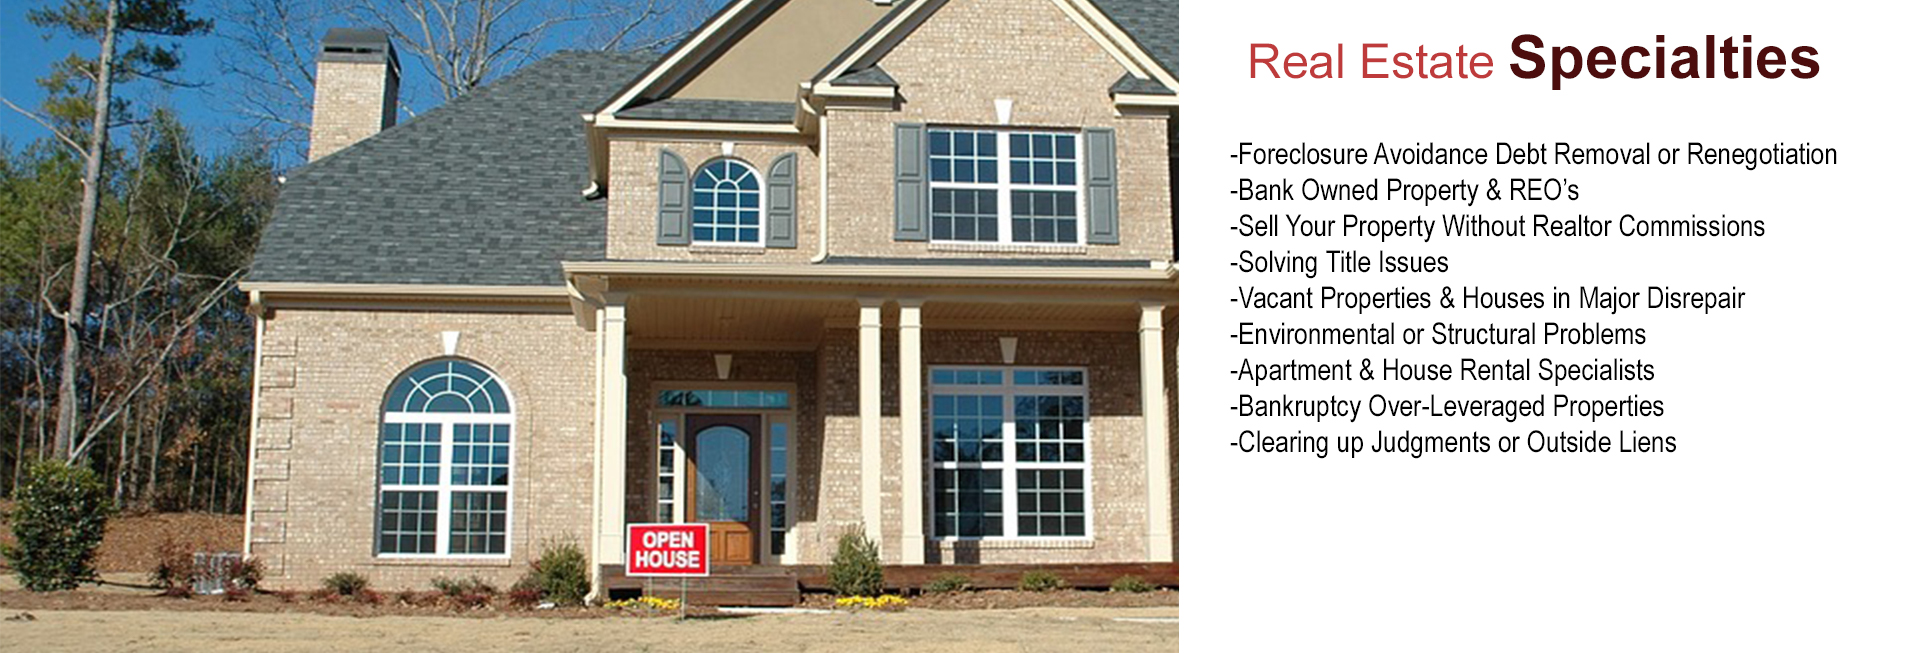
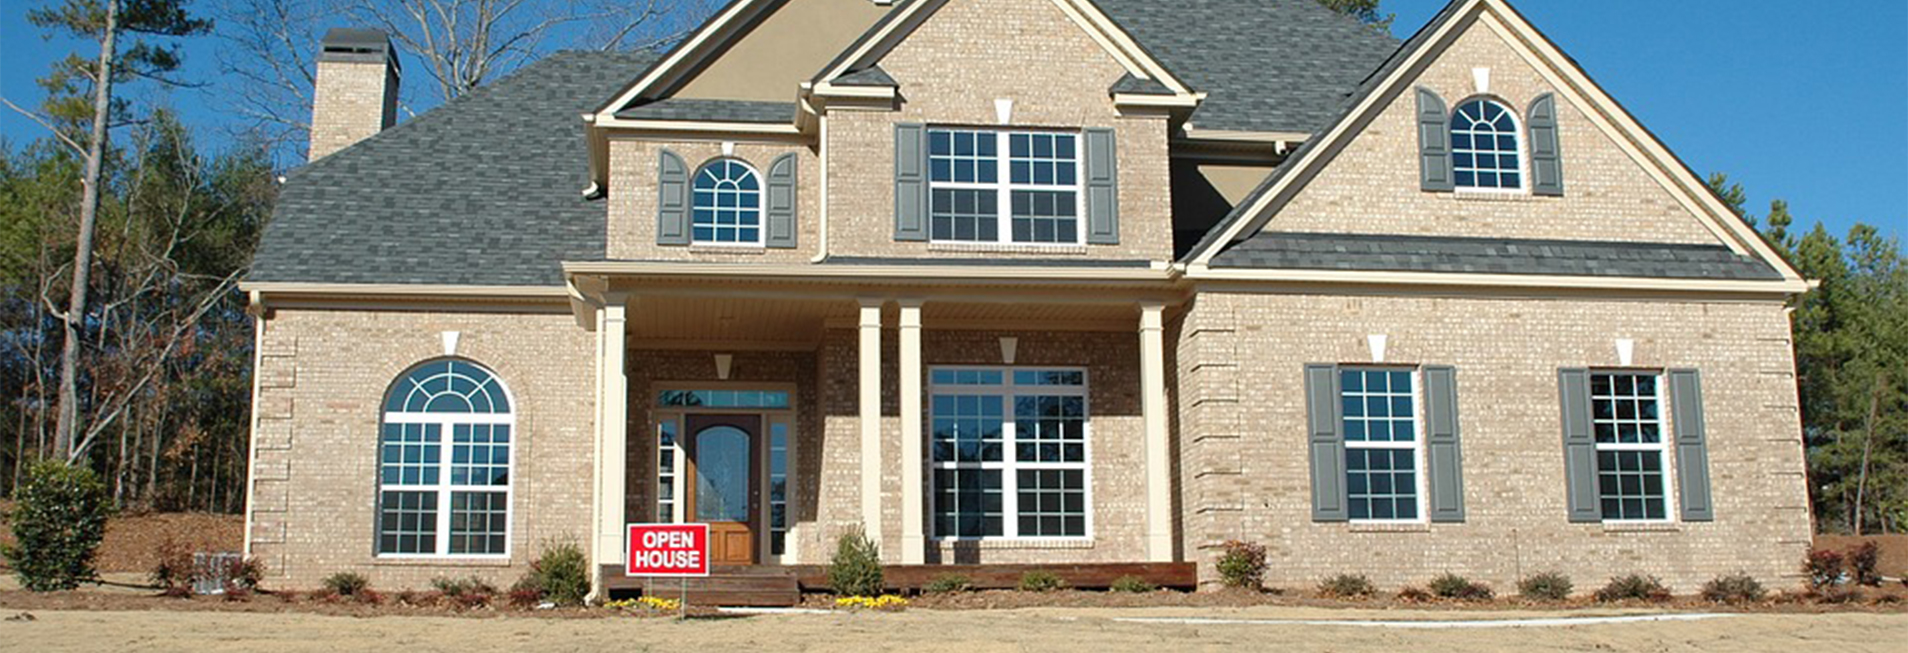
Carousel and Whoweare hidden/shown correctly, modal edits. New images

diff --git a/site/src/app/home/home.component.ts b/site/src/app/home/home.component.ts
@@ -13,10 +13,13 @@ export class HomeComponent implements OnInit {
 
   ngOnInit() {
       this.tiles = [
-          { img: 'assets/images/slideshow/Charity-2.jpg', caption: '', slide: 0 },
-          { img: 'assets/images/slideshow/Family-2.jpg', caption: '', slide: 1 },
-          { img: 'assets/images/slideshow/sale-2.jpg', caption: '', slide: 2 },
-          { img: 'assets/images/slideshow/Team-2.jpg', caption: '', slide: 3 }
+          {
+              img: 'assets/images/slideshow/Charity-2.jpg', title: 'Giving Back',
+              caption: 'I Buy As Is, Inc. Gives network of companies dedicated to giving back to our community. We are passionate about philanthropy and we have had the honor of working with amazing organizations like Habitat for Humanity and the Red Cross. I Buy As Is, Inc. is the Tampa Bay area’s prime real estate investment company. With over 45 years of combined expertise we are able to help homeowners overcome a multitude of financial situations. We recognize that each situation is different, we take great pride in catering to each individual homeowners needs. We are capable of buying homes and making cash offers with a fast and efficient process. We also rehabilitate numerous properties throughout our area in order to assist in the redevelopment of our local communities with a proven track record.', slide: 0
+          },
+          { img: 'assets/images/slideshow/Family-2.jpg', title: 'Our team works for you and YOURS.', caption:'With our extensive Real Estate specialties including but not limited to: Avoiding Foreclosure, Divorce or Land Disputes, and Costly Home Repairs; we can help you and your family sell your home and free youself from the burden that it carried.', slide: 1 },
+          { img: 'assets/images/slideshow/sale-2.jpg',title:'Real Estate Specialties' ,caption: 'Foreclosure Avoidance Debt Removal or Renegotiation, Bank Owned Property & REO’s, Sell Your Property Without Realtor Commissions, Solving Title Issues, Vacant Properties & Houses in Major Disrepair, Environmental or Structural Problems,  Apartment & House Rental Specialists, Bankruptcy Over-Leveraged Properties, Clearing up Judgments or Outside Liens', slide: 2 },
+          { img: 'assets/images/slideshow/Team-2.jpg',title:'We are...' ,caption: 'I Buy As Is, Inc. is the areas’ premier real estate solutions company, and since our inception we have been helping homeowners along with improving communities in each city we work in. Through our extensive knowledge of the business, network of resources, and years of expertise, we can assist homeowners with a wide variety of real estate problems. We pride ourselves on our reputation for working one-on-one with each customer to handle their individual situations.Our mission is to rejuvenate neighborhoods and increase the standard of living by improving the overall quality of housing for the residents. Call us today and let’s see how we can work together!', slide: 3 }
       ];
  
   }

diff --git a/site/src/app/modal/modal.component.html b/site/src/app/modal/modal.component.html
@@ -4,7 +4,28 @@
 <div class="modal fade bs-example-modal-lg" tabindex="-1" role="dialog" aria-labelledby="myLargeModalLabel">
   <div class="modal-dialog modal-lg" role="document">
     <div class="modal-content">
-      ...
+        <div class="row ">
+          <img class="col-xs-12" src="src/userassets/images/properties/{{property.masterimage}}" />
+
+          <div class="col-xs-12 col-sm-12 center">
+            <h2>{{property.name}}</h2>
+            <div class="col-xs-12 col-sm-12 center">
+              <p class="about">
+                {{property.address}},
+                {{property.city}}, {{property.state}}
+                {{property.zip}}
+              </p>
+            </div>
+            <h3>{{property.location}}</h3>
+            <div class="row">
+              <div *ngFor="let propertyattribute of property.propertyattributes"
+                   class="col-xs-6 col-sm-4">
+                <h4>{{propertyattribute.key}}</h4>
+                {{propertyattribute.value}}
+              </div>
+            </div>
+          </div>
+        </div>
     </div>
   </div>
 </div>

diff --git a/site/src/app/mock-properties.ts b/site/src/app/mock-properties.ts
@@ -215,7 +215,7 @@ export const FEATUREDPROPERTIES: Property[] = [
         masterimage: 'IMG_2.jpg',
         images: ['2017 - 05 - 02 12.39.06.jpg', 'IMG_0567.JPG', '2017-05-02 12.44.27.jpg', '2017-05-02 12.53.07.jpg', ' IMG_0561.JPG', ' IMG_0564.JPG ]'],
         propertyattributes: [
-            { key: 'Construction', value: 'Block, Stucco' },
+            { key: 'Structure Type', value: 'Block, Stucco' },
             { key: 'Villa', value: ' End Unit, 1 Story' },
             { key: 'Bedrooms', value: '2' },
             { key: 'Bathrooms', value: '2' },

diff --git a/site/src/app/home/home.component.html b/site/src/app/home/home.component.html
@@ -3,9 +3,9 @@
 <!--<app-video-showcase title="Register for our Newsletter" background="/assets/images/tropical.jpg" video="https://www.youtube.com/embed/KnFFXepV3FQ?list=PLcuq0s-kYdGV3s--5GBtZd9mDky9Gz95w"></app-video-showcase>-->
 <app-featured></app-featured>
 <div class="hidden-xs hidden-sm col-md-12">
-  <!--<app-carousel [tiles]="tiles"></app-carousel>-->
+ <app-carousel [tiles]="tiles"></app-carousel>
 </div>
-<div class="col-xs-12">
+<div class="col-xs-12 hidden-md hidden-lg">
   <app-homeweare></app-homeweare>
 </div>
 <div class="container">

diff --git a/site/src/app/carousel/carousel.component.html b/site/src/app/carousel/carousel.component.html
@@ -8,8 +8,9 @@
   <div class="carousel-inner" role="listbox">
     <div [ngClass] ="j == 0 ? 'item active' : 'item'" *ngFor="let tile of tiles; let j = index">
       <img [src]="tile.img" [alt]="tile.caption">
-      <div class="carousel-caption">
-       {{tile.caption}}
+      <div class="carousel-caption d-none d-md-block text">
+        <h3>{{tile.title}}</h3>
+        <p>{{tile.caption}}</p>
       </div>
     </div>
   </div>

diff --git a/site/src/app/carousel/carousel.component.css b/site/src/app/carousel/carousel.component.css
@@ -1,1 +1,19 @@
-
+carousel-caption {
+  text-align:right;
+
+}
+
+p{
+ color:black;
+ font-family:'Segoe UI', Tahoma, Geneva, Verdana, sans-serif;
+ font-style:normal;
+
+}
+h3 {
+  font-size:50px;
+  color: crimson;
+}
+.text {
+  background-color: #ffffff;
+  opacity: .8;
+}

diff --git a/site/src/app/features/features.component.css b/site/src/app/features/features.component.css
@@ -7,6 +7,7 @@ h3 {
 }
 h4 {
   color: #000000;
+  font-size:15px;
 }
 p {
   color: #000000;

diff --git a/site/src/app/modal/modal.component.css b/site/src/app/modal/modal.component.css
@@ -1,0 +1,1 @@
+
